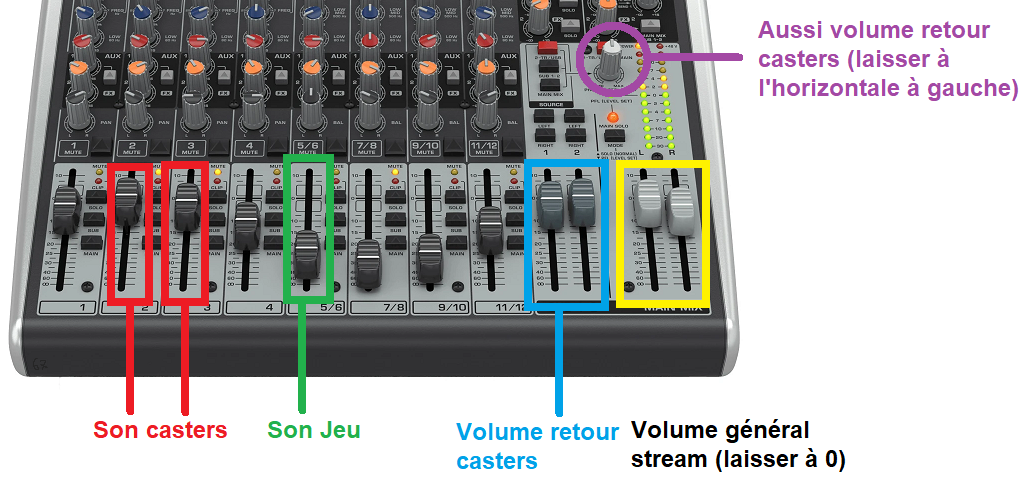
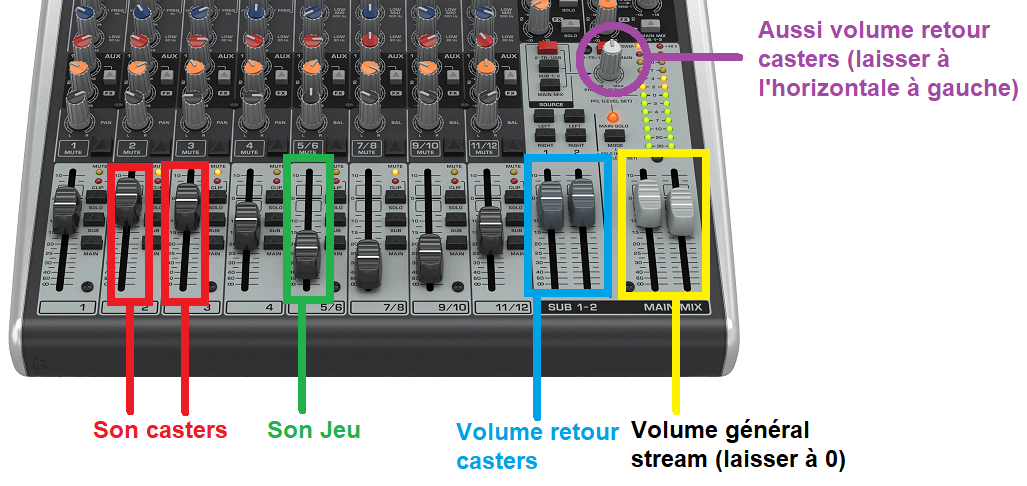
update guide régie

Changed region(s): [[0.4985, 0.3086, 0.7167, 0.8642]]

diff --git a/guide.md b/guide.md
@@ -63,7 +63,8 @@ En branchant les HDMI vous allez peut être manquer de câbles longs : n'oubliez
   - On commence par brancher la prise carrée au bout du câble au casque, puis une fois que la prise est bien insérée on tourne la vis dans le trou au niveau de la prise (pour maintenir le câble)
   - On branche les jack des deux casques au splitter jack qui se trouvait dans une des 2 housses
   - Si on est sur la carte son (le boitier rouge), on branche le splitter dans la prise jack en bas à droite de la carte son. Puis, pour chaque casque, on branche sa prise jack, et l'autre embout (XLR) à la prise correspondante sur l'avant de la carte son.
-  - Si on est sur la table de mixage, les grosses prises des casques (XLR) vont dans les prises tout en haut de la table (utiliser la 2ème et la 3ème). Le splitter jack se branche dans la prise jack en bas à droite de la partie supérieure (marquée "Phones"). 
+  - Si on est sur la table de mixage, les grosses prises des casques (XLR) vont dans les prises tout en haut de la table (utiliser la 2ème et la 3ème). Le splitter jack se branche dans la prise jack en bas à droite de la partie supérieure (marquée "Phones").
+  - Si les casters sont un tant soit peu loin de la régie, il va falloir utiliser les rallonges : 2 rallonges XLR pour les prises XLR des casques (elles sont souvent dans le même sac que le clavier/souris, c'est celles avec les embouts bleus), 1 rallonge jack pour le gros jack des casters (entre le splitter et la table/carte du coup, pour ça qu'il y a besoin que d'une seule)
 - Si on est sur la table de mixage, on branche l'ampli du son du jeu à la table de mixage : on utilise le câble avec d'un côté une prise petit jack et de l'autre deux gros jack, avec le petit branché à l'ampli (sur une des 4 sorties à l'avant) et les deux gros sur le "Line 5/6" de la table de mixage.  
   ![](./assets-guide/xenyx.png)
 - On allume la table de mixage le cas échéant (switch juste à côté de l'alim, attention à pas allumer l'autre switch)
